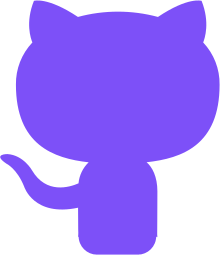
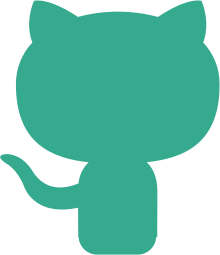
Starts re-theming

diff --git a/src/components/Header.vue b/src/components/Header.vue
@@ -16,7 +16,7 @@
 			<!-- the entire logo will link to github cuz why not -->
 			<a 
 				class="github-link"
-				href="https://github.com/orokro/Vue-Window-Manager"
+				href="https://github.com/orokro/vue-settings-panel"
 				target="_blank"
 			>
 
@@ -24,7 +24,7 @@
 				<div class="logo-circle">
 					<img 
 						class="logo" 
-						src="/img/VWM_logo.png"
+						src="/img/VSP_logo.png"
 						alt="Logo"
 						height="100%"
 					/>
@@ -33,7 +33,7 @@
 				<!-- logo text -->
 				<h1 class="logo-text box-bg-color">
 					<span>
-						vue-win-mgr
+						vue-settings-panel
 					</span>
 				</h1>
 
@@ -196,10 +196,10 @@ onUnmounted(() => {
 		width: 100vw;
 
 		// dark blur background
-		background: rgba(255, 255, 255, 0.6);
+		background: rgba(158, 238, 205, 0.6);
 		backdrop-filter: blur(15px);
 
-		border-bottom: 3px solid white;
+		border-bottom: 3px solid #077B95;
 
 		// gradient background
 		.bg-horizontal-gradient {
@@ -212,7 +212,7 @@ onUnmounted(() => {
 
 		// common bg color
 		.box-bg-color {
-			background: rgba(255, 255, 255, .9);
+			background: #d9f4fe;
 		}
 
 		// stack stuff left
@@ -235,7 +235,7 @@ onUnmounted(() => {
 		.logo-box {
 
 			// fixed size
-			width: 360px;
+			width: 440px;
 			height: 80px;
 
 			/* border: 1px solid red; */
@@ -279,7 +279,7 @@ onUnmounted(() => {
 				padding: 0px 20px 0px 5px;
 
 				// text styles
-				color: #7d50f8;
+				color: #35AA8F;
 				font-weight: bolder;
 				font-style: italic;
 
@@ -321,7 +321,7 @@ onUnmounted(() => {
 					font-weight: inherit;
 					position: relative;
 					top: -4px;
-					color: #7d50f8
+					color: #35AA8F
 				}
 
 				&:hover {
@@ -378,7 +378,7 @@ onUnmounted(() => {
 					cursor: pointer;
 					
 					// text styles
-					color: #8860f7;
+					color: #35AA8F;
 					font-weight: bold;
 					transition: color 0.3s ease;
 
@@ -389,12 +389,12 @@ onUnmounted(() => {
 					}// span
 
 					&:hover {
-						color: #00ABAE;
+						color: #6c35aa;
 						font-weight: bolder;
 					}
 					
 					&.active {
-						color: white;
+						color: #d9f4fe;
 						font-weight: bolder;
 					}
 					
@@ -413,7 +413,7 @@ onUnmounted(() => {
 					width: 82.5px;
 
 					// nice teal styles
-					background: #7d50f8;
+					background: #35AA8F;
 
 					// same shape as .nav-container
 					border-radius: 40px 5px;

diff --git a/src/components/SectionHeader.vue b/src/components/SectionHeader.vue
@@ -19,7 +19,6 @@
 <script setup>
 
 // vue
-import { ref, onMounted } from 'vue';
 
 </script>
 <style lang="scss" scoped>
@@ -34,7 +33,7 @@ import { ref, onMounted } from 'vue';
 		
 		/* border: 1px solid red; */
 
-		background: rgba(255, 255, 255, 0.25);
+		background: rgba(158, 238, 205, 0.25);
 		font-size: 30px;
 		color: white;
 		text-align: center;
@@ -42,8 +41,8 @@ import { ref, onMounted } from 'vue';
 		padding: 5px;
 
 		// well do some cool nesting borders
-		border-top: 3px solid white;
-		border-bottom: 3px solid white;
+		border-top: 3px solid #077B95;
+		border-bottom: 3px solid #077B95;
 
 		h2 {
 
@@ -56,14 +55,14 @@ import { ref, onMounted } from 'vue';
 
 	.outer-border-2 {
 		padding: 3px 0px;
-		border-top: 2px solid white;
-		border-bottom: 2px solid white;
+		border-top: 2px solid #077B95;
+		border-bottom: 2px solid #077B95;
 	}
 
 	.outer-border-1 {
 		padding: 2px 0px;
-		border-top: 1px solid white;
-		border-bottom: 1px solid white;
+		border-top: 1px solid #077B95;
+		border-bottom: 1px solid #077B95;
 
 		/* box-sizing: content-box; */
 		margin-top: 150px;

diff --git a/src/App.vue b/src/App.vue
@@ -21,7 +21,7 @@
 	<div class="overview-box">
 
 		<div align="center">
-			<img class="logo" src="/img/VWM_logo.png" alt="Vue Win Mgr Logo" width="200px"/>
+			<img class="logo" src="/img/VSP_logo.png" alt="Vue Win Mgr Logo" width="200px"/>
 		</div>
 
 		<h2>vue-win-mgr In a Nutshell:</h2>
@@ -185,9 +185,9 @@ import {
 			<div class="box">
 				<div>
 					Find it on
-					<a href="https://github.com/orokro/Vue-Window-Manager" target="_blank">GitHub:</a>
+					<a href="https://github.com/orokro/vue-settings-panel" target="_blank">GitHub:</a>
 				</div>
-				<a href="https://github.com/orokro/Vue-Window-Manager" target="_blank">
+				<a href="https://github.com/orokro/vue-settings-panel" target="_blank">
 					<img class="site-logo" src="/img/github_logo.png" alt="GitHub Logo" height="100px"/>
 				</a>
 			</div>

diff --git a/src/components/IntroVideoBox.vue b/src/components/IntroVideoBox.vue
@@ -84,7 +84,7 @@ defineProps({
 			margin: 1rem 0;
 		}
 
-			// blurbs above & below the video
+		// blurbs above & below the video
 		.blurb-top,
 		.blurb-bottom {
 
@@ -96,14 +96,14 @@ defineProps({
 			align-items: center;
 
 			font-size: 1.1rem;
-			color: #555;
+			color: #015a6e;
 			a {
 				font-style: italic;
 			}
 			
 
 			div {
-				background: white;
+				background: rgba(158, 238, 205, 0.6);
 				border-radius: 100px;
 				padding: 20px 25px;
 			}

diff --git a/vite.config.js b/vite.config.js
@@ -7,7 +7,7 @@ import vueDevTools from 'vite-plugin-vue-devtools'
 // https://vite.dev/config/
 export default defineConfig({
 
-	base: '/Vue-Window-Manager/',
+	base: '/vue-settings-panel/',
 
 	plugins: [
 		vue(),
